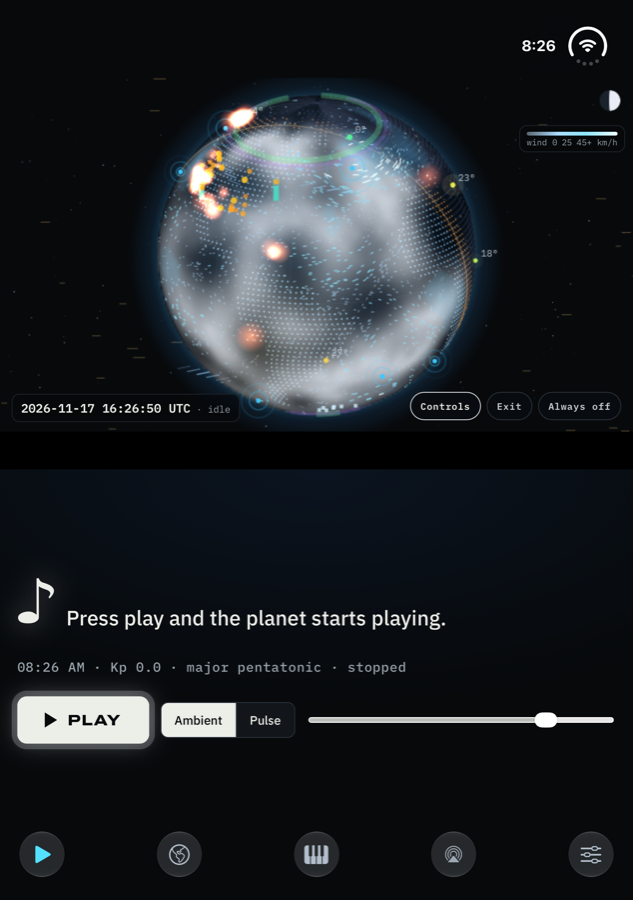
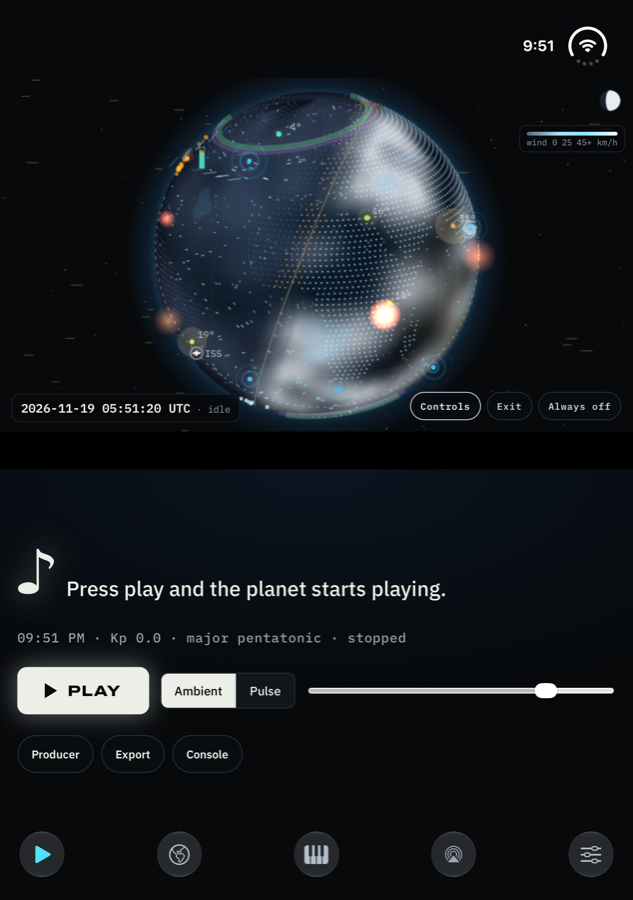
iPhone Duo sound desk: simulator fixes + app version 1.0.2 (7) (#106)
* iPhone Duo: Producer and Export open as a full sound desk beside or under the globe

Folded with Producer or Export open, the panel fills its page half (right page in Book, bottom page in Tent)
with the title and tabs pinned and only the controls scrolling; the globe keeps the other half.
One panel at a time, a close button in the header, the Layers peek and Home button step aside, the dock stays.
The Planet Clock gets Producer / Export / Console buttons. The Console tablet tip no longer shows when folded.

Claude-Session: https://claude.ai/code/session_01Avo9TdKv6zi7ZkVixWKyJ9

* iPhone Duo sound desk: fixes from a pass on the Duo simulator

- Sound tab: its masonry columns flowed sideways off the page in the fixed-height desk; now one column that scrolls down
- Switching tabs starts the new tab at its top instead of keeping the last tab's scroll
- The desk ends at the top of the dock (measured into --fdock) instead of running under it
- Producer or Export opened from the Planet Clock goes back to the clock when closed
- Buttons, selects and labels use touch-action: manipulation, so two quick taps no longer zoom the page (pinch zoom still works)

* Bump iOS/macOS to 1.0.2 (7)

* iPhone Duo simulator screenshots: the sound desk in Book and Tent

* docs/duo: the six Duo screenshots as separate files (the last commit wrote them over one file)

---------

diff --git a/js/fold.js b/js/fold.js
@@ -20,6 +20,7 @@ const FOLD = (() => {
     cur = null,
     dismissed = null,
     clock = true,
+    fromClock = false,
     wake = null,
     dimT = 0,
     last = null;
@@ -71,7 +72,7 @@ html.fold-book .vtip,html.fold-tent .vtip{display:none}
    its title and tabs pinned and only the controls scrolling. The dock stays underneath for Play, Ambient/Pulse and Record. */
 html.fold-pane body{overflow:hidden}
 html.fold-pane .side,html.fold-pane #homeBtn{display:none!important}
-html.fold-pane .pro:not([hidden]){position:fixed;z-index:60;right:0;bottom:var(--dock,0px);margin:0;border:0;border-radius:0;display:flex;flex-direction:column;overflow:hidden;
+html.fold-pane .pro:not([hidden]){position:fixed;z-index:60;right:0;bottom:var(--fdock,0px);margin:0;border:0;border-radius:0;display:flex;flex-direction:column;overflow:hidden;
   padding:10px max(14px,env(safe-area-inset-right,0px)) 0 14px;box-shadow:0 -1px 0 var(--line2)}
 html.fold-book.fold-pane .pro:not([hidden]){left:var(--fp);top:0;padding-top:max(10px,env(safe-area-inset-top,0px))}
 html.fold-tent.fold-pane .pro:not([hidden]){left:0;top:var(--fp);padding-left:max(14px,env(safe-area-inset-left,0px))}
@@ -82,6 +83,7 @@ html.fold-pane #ptabs::-webkit-scrollbar{display:none}
 html.fold-pane #ptabs button{flex:none}
 html.fold-pane #pgrid,html.fold-pane #exp>.exp{flex:1;min-height:0;overflow:auto;overscroll-behavior:contain;padding-bottom:14px;margin:0 -14px;padding-left:14px;padding-right:14px}
 html.fold-pane #exp>.exp,html.fold-pane #pgrid{grid-auto-rows:max-content;align-content:start}
+html.fold-pane #pgrid.mas{columns:auto}
 .fold-close{display:none;flex:none;width:34px;height:34px;border-radius:10px;border:1px solid var(--line2);background:var(--sf1);color:var(--fg);font:20px/1 var(--body);cursor:pointer;margin-left:6px}
 html.fold-pane .fold-close{display:inline-grid;place-items:center}
 .pc-desk{display:flex;gap:8px}
@@ -119,6 +121,7 @@ html.fold-pane .fold-close{display:inline-grid;place-items:center}
     if (!b) return;
     if (b.dataset.f === "view") {
       clock = !clock;
+      fromClock = false;
       apply();
       if (!clock) scrollTo(0, 0);
       return;
@@ -307,13 +310,37 @@ html.fold-pane .fold-close{display:inline-grid;place-items:center}
       panes.forEach((p) => p !== r.target && !p.hidden && (p.hidden = true));
       if (cur.axis === "h" && clock) re = !(clock = false);
     });
+    // a panel opened from the Planet Clock goes back to the clock when it closes
+    if (fromClock && cur && cur.axis === "h" && panes.every((p) => p.hidden)) {
+      fromClock = false;
+      clock = re = true;
+    }
     re ? apply() : paneSync();
   });
   panes.forEach((p) => po.observe(p, { attributes: true, attributeFilter: ["hidden"] }));
+  // the desk ends where the dock begins (--fdock: the dock's height from the bottom edge, safe area included)
+  const dock = document.querySelector(".dock");
+  const dockH = () => {
+    if (!dock) return;
+    const r = dock.getBoundingClientRect(),
+      h = r.height ? Math.max(0, Math.round(innerHeight - r.top)) : 0;
+    R.style.setProperty("--fdock", h + "px");
+  };
+  if (dock && window.ResizeObserver) new ResizeObserver(dockH).observe(dock);
+  addEventListener("resize", dockH);
+  dockH();
+  // in the desk only the controls scroll, so a new tab starts at its top
+  const ptabs = $("ptabs"),
+    pgrid = $("pgrid");
+  if (ptabs && pgrid)
+    ptabs.addEventListener("click", () => {
+      if (R.classList.contains("fold-pane")) requestAnimationFrame(() => (pgrid.scrollTop = 0));
+    });
   pc.querySelector(".pc-desk").onclick = (e) => {
     const b = e.target.closest("[data-d]");
     if (!b) return;
     clock = false;
+    fromClock = b.dataset.d !== "cns";
     if (b.dataset.d === "cns") {
       apply();
       if (typeof CONSOLE !== "undefined") CONSOLE.open();
@@ -343,7 +370,7 @@ html.fold-pane .fold-close{display:inline-grid;place-items:center}
     }
     hinge.hidden = bar.hidden = !f;
     const now = f && f.axis;
-    if (now === "h" && was !== "h") clock = true; // tent opens on the Planet Clock; "Controls" swaps in the full app
+    if (now === "h" && was !== "h") ((clock = true), (fromClock = false)); // tent opens on the Planet Clock; "Controls" swaps in the full app
     const showClock = now === "h" && clock;
     pc.hidden = !showClock;
     R.classList.toggle("fold-clock", showClock);

diff --git a/index.html b/index.html
@@ -46,6 +46,7 @@
  --r1:6px;--r2:10px;--r3:14px;
  --disp:"Archivo","Arial Black",system-ui,sans-serif;--mono:"IBM Plex Mono",ui-monospace,monospace;--body:"IBM Plex Sans",system-ui,sans-serif;--dock:0px}
 *{box-sizing:border-box;-webkit-tap-highlight-color:transparent}
+button,select,label,.btnlike{touch-action:manipulation}
 [hidden]{display:none!important}
 .ic{width:17px;height:17px;flex:none;fill:none;stroke:currentColor;stroke-width:2;stroke-linecap:round;stroke-linejoin:round}.ic circle{fill:var(--panel)}
 .ldots{display:none}
